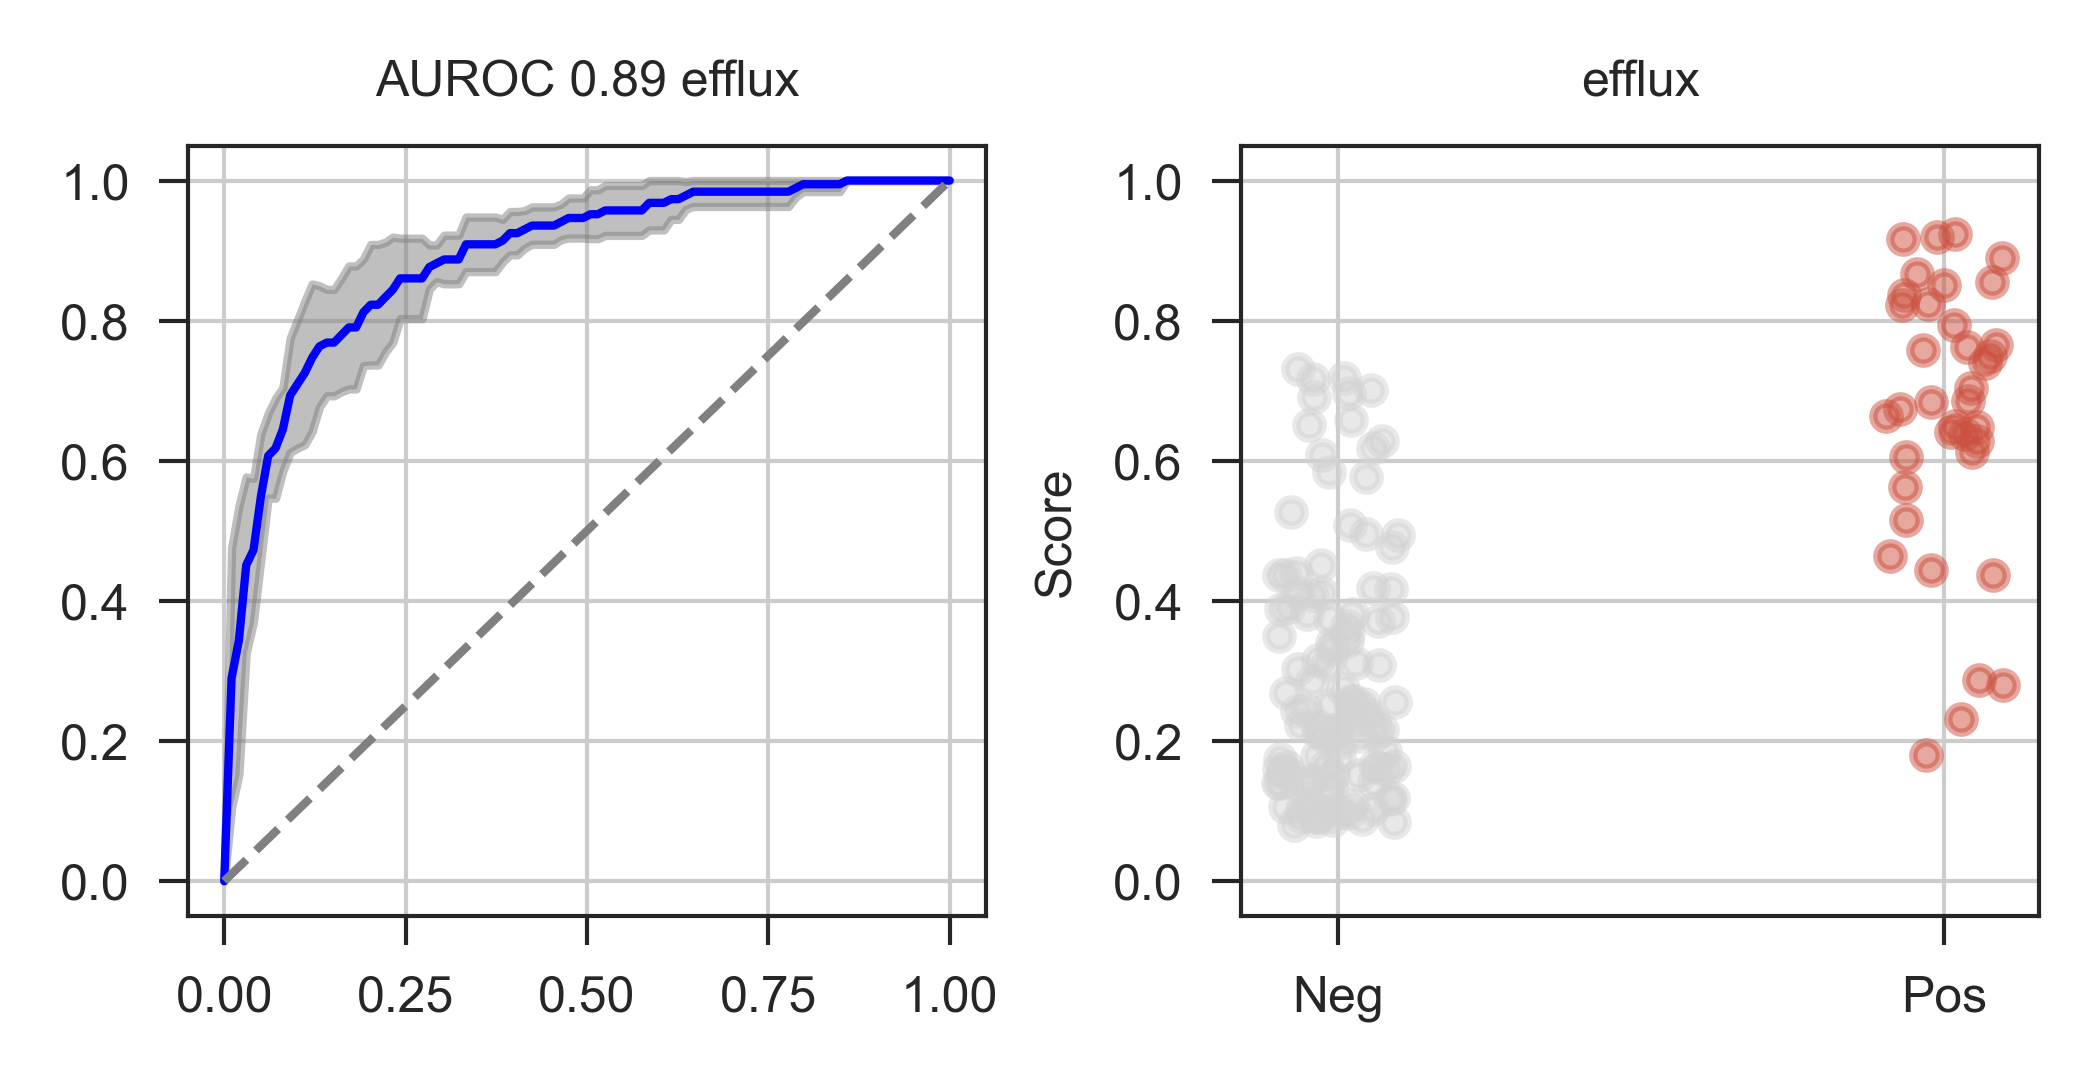
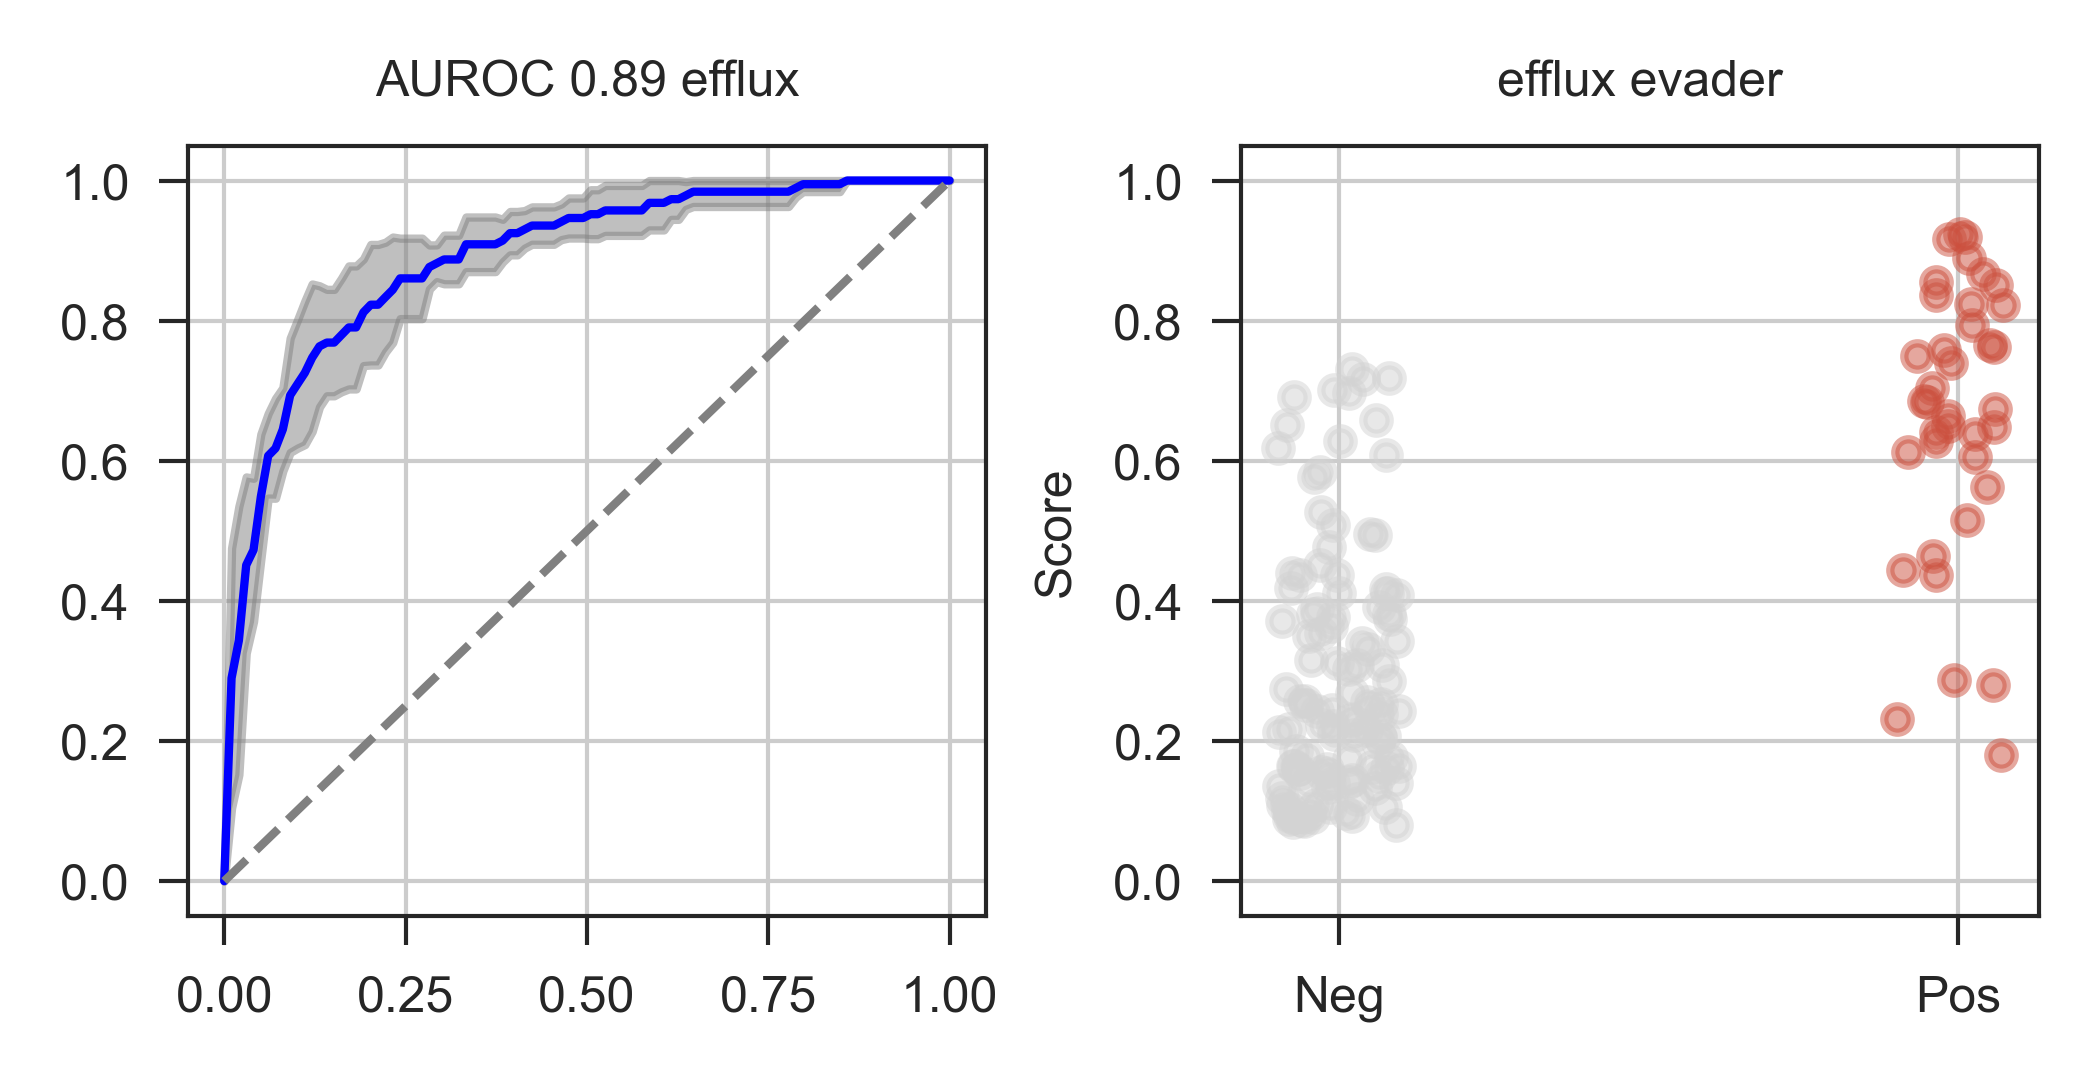
rename plot [skip ci]

diff --git a/model/framework/fit/src/performance.py b/model/framework/fit/src/performance.py
@@ -43,7 +43,7 @@ def plot_yhat(ax,name):
     ax.set_xlabel("")
     ax.set_ylabel("Score")
     ax.set_ylim(-0.05, 1.05)
-    ax.set_title(name)
+    ax.set_title("efflux evader")
 
 def plot_roc_curve(ax, name):
     with open(os.path.join(model_dir, f"{name}", "report_crossval.json"), 'r') as f:
